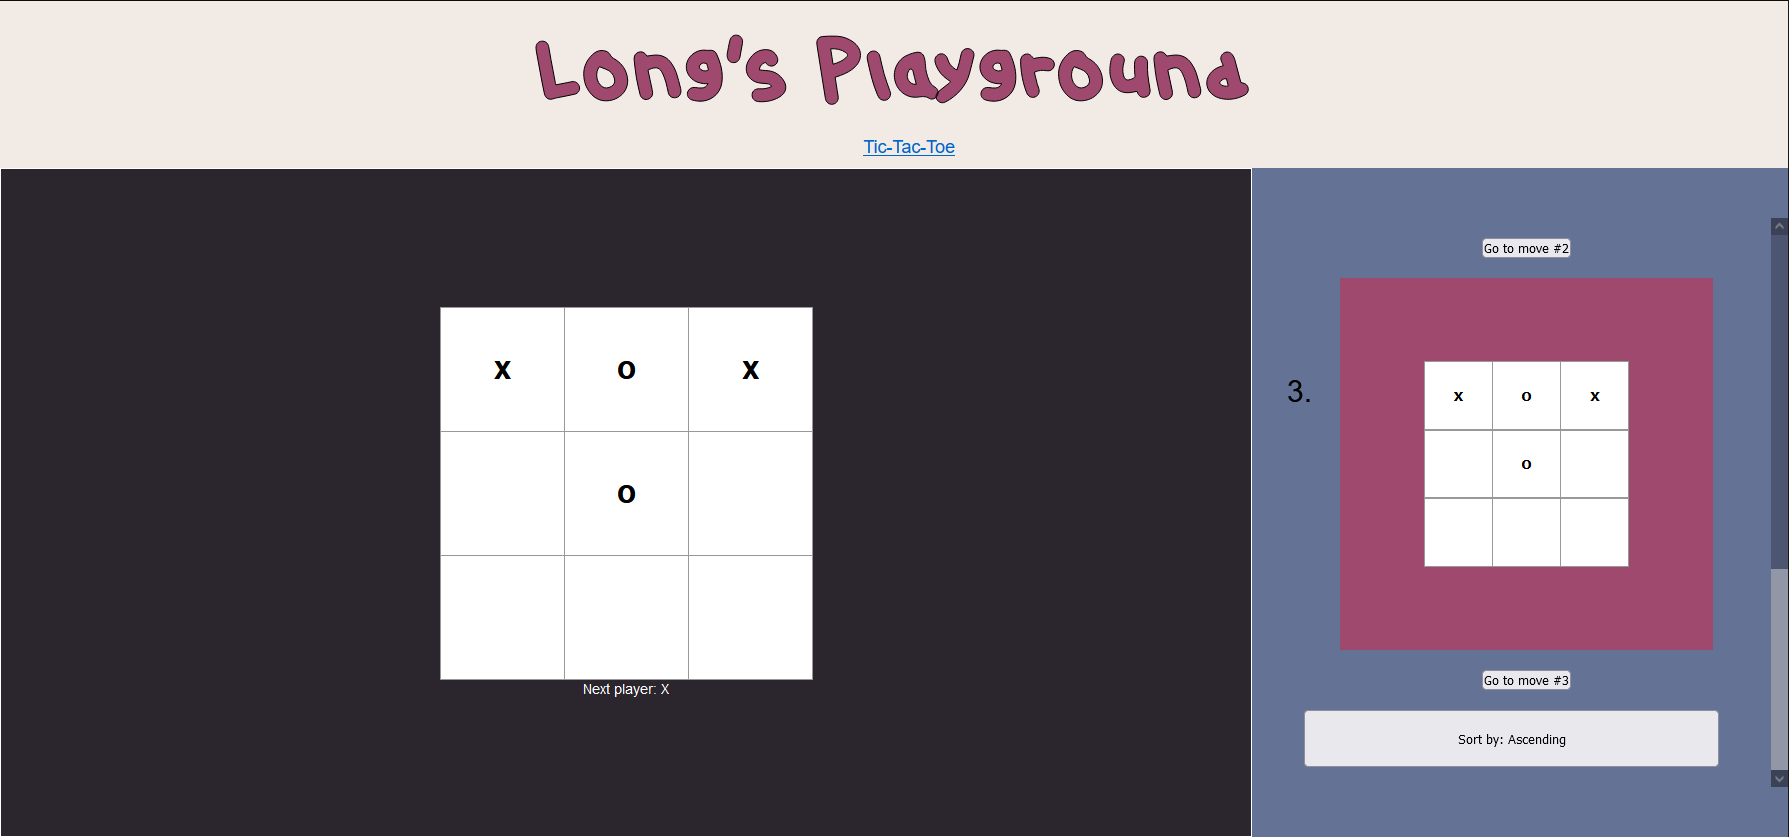
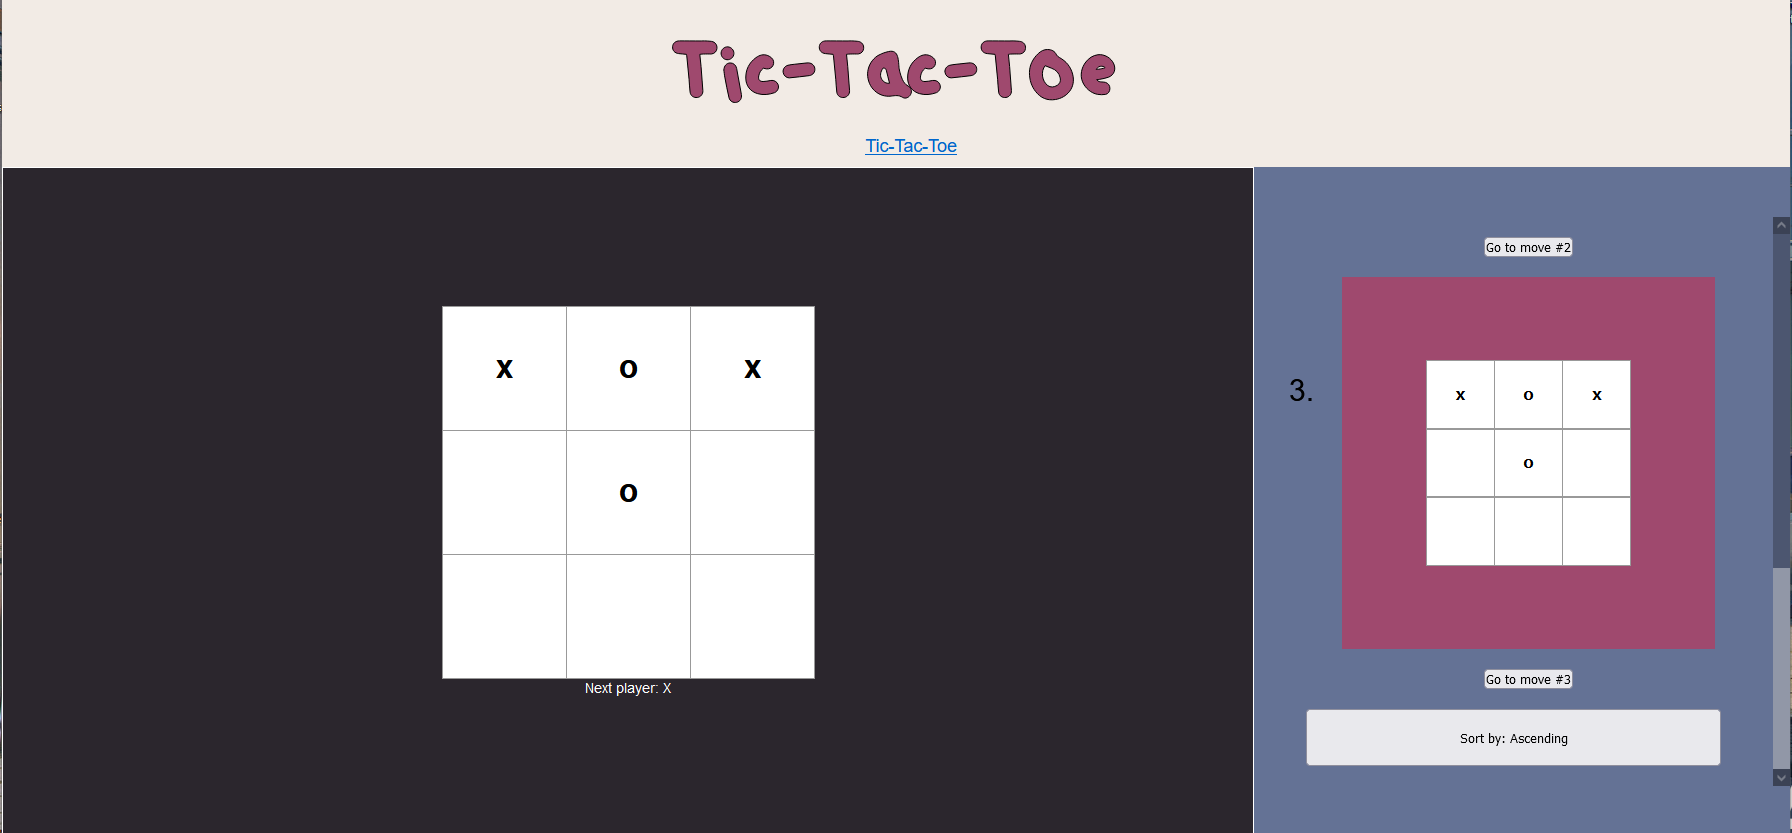
Add files via upload

diff --git a/src/index.js b/src/index.js
@@ -210,7 +210,7 @@ class App extends React.Component {
     render() {
         return (
             <div className="flex-container">
-                <div className="banner">Long's Playground</div>
+                <div className="banner">Tic-Tac-Toe</div>
                     <BrowserRouter>
                         <ul className="navbar">
                             <li><NavLink exact to='/'>Tic-Tac-Toe</NavLink></li>
